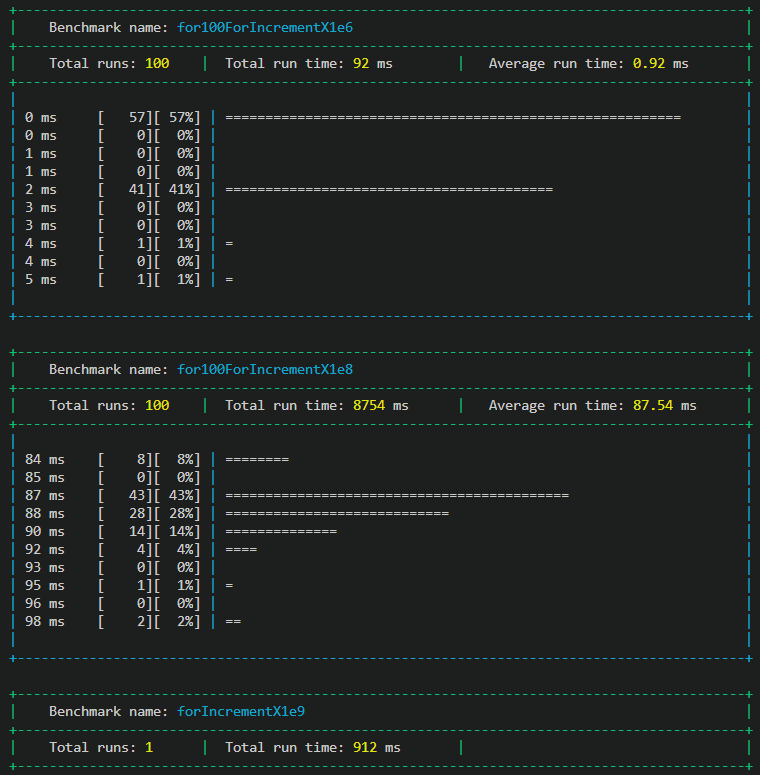
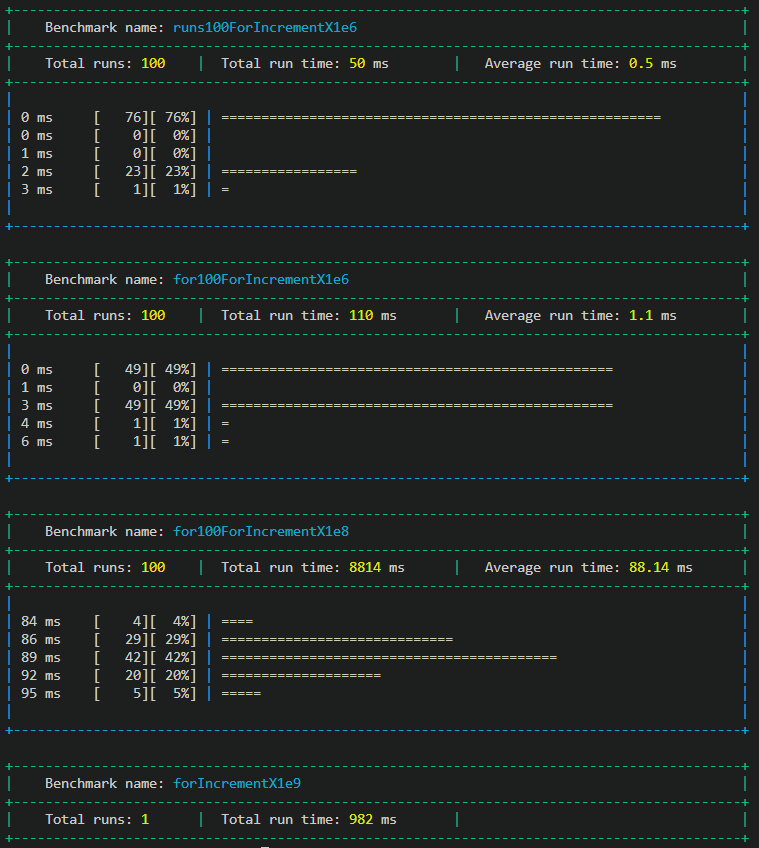
Add precision option

diff --git a/lib.ts b/lib.ts
@@ -7,7 +7,17 @@ import {
   yellow,
 } from "./deps.ts";
 
-export function prettyBenchmarkResult(results: BenchmarkRunResult) {
+export function prettyBenchmarkResult(
+  { precision = 10 }: { precision?: number } = {},
+) {
+  return (result: BenchmarkRunResult) =>
+    _prettyBenchmarkResult(result, precision);
+}
+
+function _prettyBenchmarkResult(
+  results: BenchmarkRunResult,
+  precision: number,
+) {
   results.results.forEach((r) => {
     prettyBenchmarkHeader(r.name);
 
@@ -15,7 +25,7 @@ export function prettyBenchmarkResult(results: BenchmarkRunResult) {
       prettyBenchmarkSingleRunMetrics(r);
     } else {
       prettyBenchmarkMultipleRunMetrics(r);
-      prettyBenchmarkMultipleRunBody(r);
+      prettyBenchmarkMultipleRunBody(r, precision);
     }
   });
 }
@@ -63,17 +73,19 @@ function prettyBenchmarkMultipleRunMetrics(result: BenchmarkResult) {
   console.log(green(prettyBenchmarkSeparator()));
 }
 
-function prettyBenchmarkMultipleRunBody(result: BenchmarkResult) {
-  const sampleRate = 10;
+function prettyBenchmarkMultipleRunBody(
+  result: BenchmarkResult,
+  precision: number,
+) {
   const max = Math.max(...result.measuredRunsMs!);
   const min = Math.min(...result.measuredRunsMs!);
-  const unit = (max - min) / sampleRate;
+  const unit = (max - min) / precision;
   let r = result.measuredRunsMs!.reduce((prev, runMs, i, a) => {
     // console.log(min, max, unit, runMs, ((runMs-min)/unit), ((runMs-min)/unit)*10, Math.ceil(((runMs-min)/unit)));
-    prev[Math.min(Math.ceil(((runMs - min) / unit)), sampleRate - 1)]++;
+    prev[Math.min(Math.ceil(((runMs - min) / unit)), precision - 1)]++;
 
     return prev;
-  }, new Array(sampleRate).fill(0));
+  }, new Array(precision).fill(0));
 
   // console.log(min, max, unit, r);
 

diff --git a/README.md b/README.md
@@ -26,13 +26,28 @@ Prints the Deno `runBenchmarks()` methods result in a nicely readable format.
 
 ### Usage
 
-Use the `silent: true` flag, if you dont want to see the default output
+Simply call `prettyBenchmarkResult` with the desired settings.
+
+With `precision` you can define, into how many groups should the results be grouped when displaying a multiple run benchmark result
+
+Use the `silent: true` flag in `runBenchmarks`, if you dont want to see the default output
 
 ```ts
 // ...add benches...
 
+runBenchmarks()
+.then(prettyBenchmarkResult())
+.catch((e: any) => {
+  console.log(red(e.benchmarkName))
+  console.error(red(e.stack));
+});
+```
+or 
+```ts
+// ...add benches...
+
 runBenchmarks({silent: true})
-.then(prettyBenchmarkResult)
+.then(prettyBenchmarkResult({precision: 5}))
 .catch((e: any) => {
   console.log(red(e.benchmarkName))
   console.error(red(e.stack));
